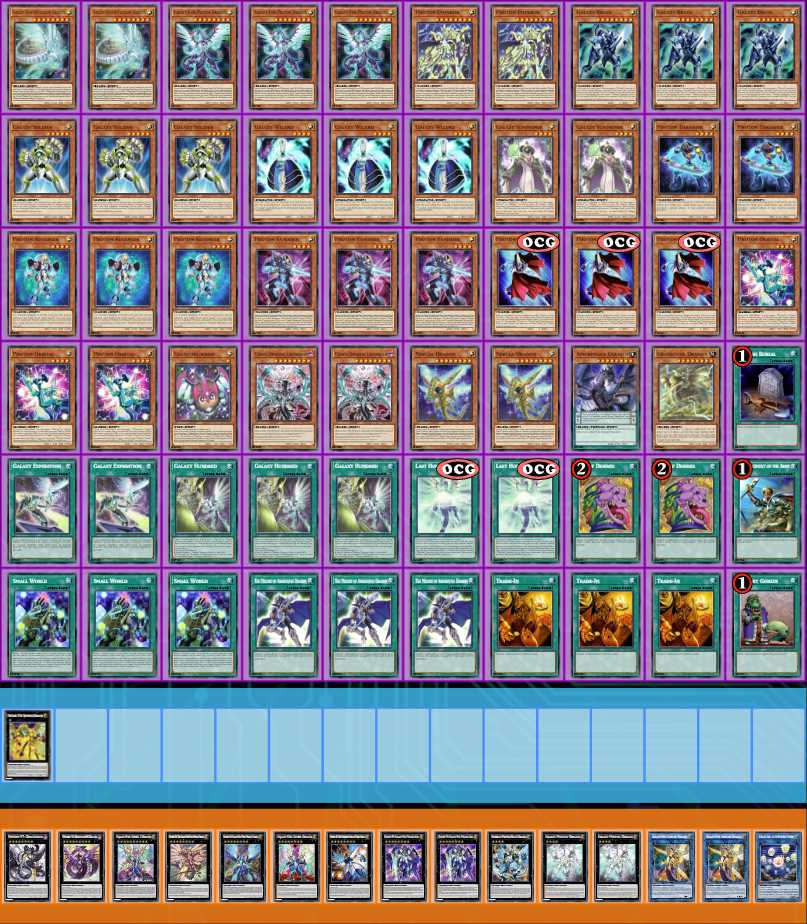
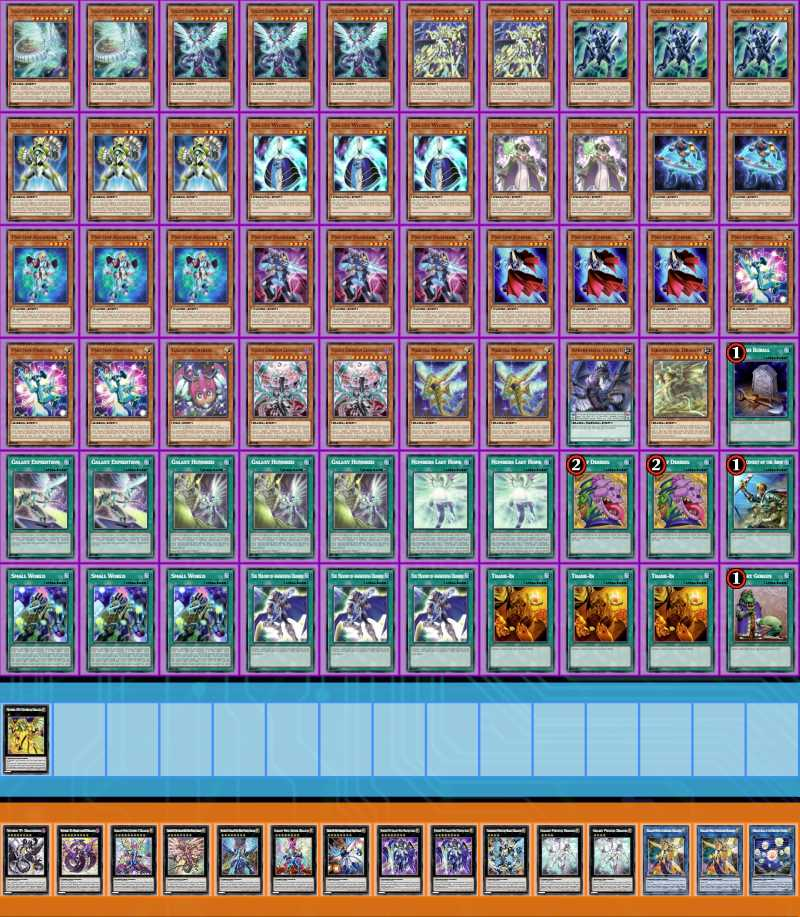
Update combos and add images

diff --git a/galaxy/decks.html b/galaxy/decks.html
@@ -97,10 +97,17 @@
 
 		<div id="decks-2" class="tab-area" hidden=true>
 			<div class="deck-area deck-top">
+				<p class="title-text">Therion Variant</p>
+				<p class="major-text">Therion monsters are popular additions to archetypes making Rank 4s or 8s. With <b>Galaxy Soldier</b> and <b>Photon Orbital</b> as targets for <b>Therion "King" Regulus</b> - the latter of which can perform its search after being equipped - Galaxy has innate synergy as well. This variant breaks <b>Galaxy Trance</b> lock more often than pure, and prioritizes <b>Gigantic "Champion" Sargas</b> and <b>Springans Merrymaker</b> routes instead.
+				<a href="https://www.duelingbook.com/deck?id=13628322" target="_blank">
+	   				<img src="/images/decks/therion-compressed.jpg" alt="Therion List">
+	   			</a>
+			</div>
+			<div class="deck-area">
 				<p class="title-text">60 cards Dragon Variant</p>
 				<p class="major-text">An unconventional build protecting <b>Hieratic Seal of the Heavenly Spheres</b> and its summon targets with <b>Number 38: Hope Harbinger Titanic Galaxy</b>. During the opponent's turn, Spheres floats into <b>Amorphage Goliath</b> to floodgate the opponent or <b>Grandtusk Dragon</b> to destroy cards. <b>Number 97: Draglubion</b> indirectly summons bosses to improve board presence. </p>
 				<a href="https://www.duelingbook.com/deck?id=13249954" target="_blank">
-	   				<img src="/images/decks/dragon-sixty-compressed.jpg" alt="Pure List">
+	   				<img src="/images/decks/dragon-sixty-compressed.jpg" alt="Dragon List">
 	   			</a>
 			</div>
 		</div>
